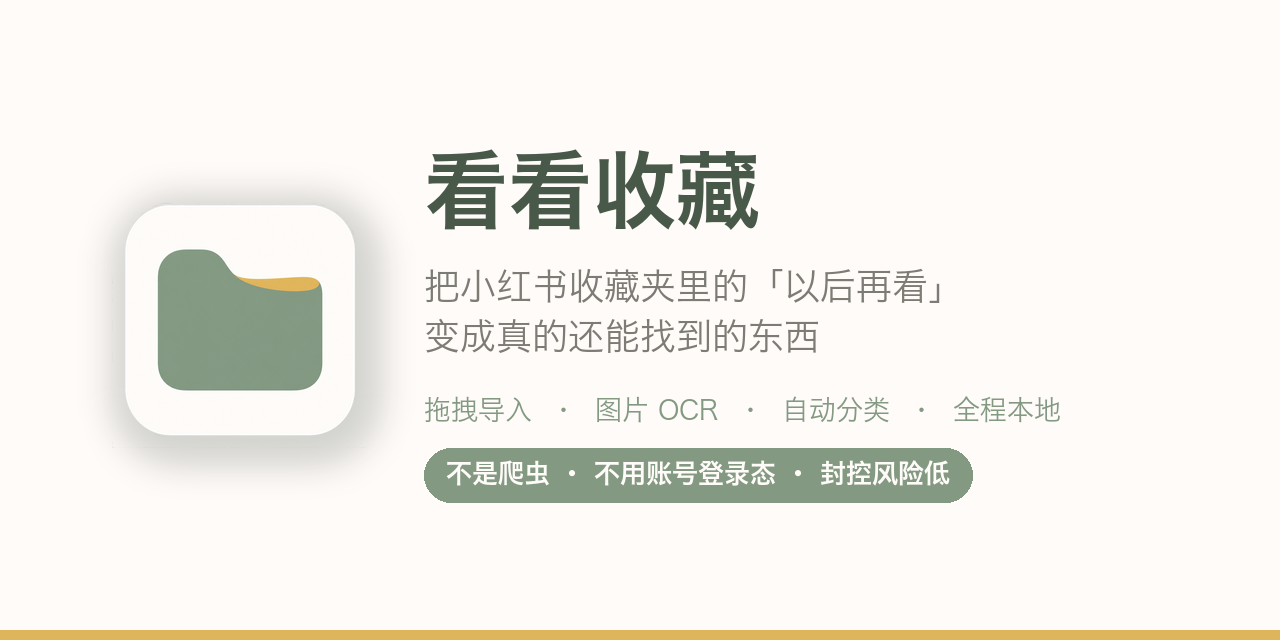
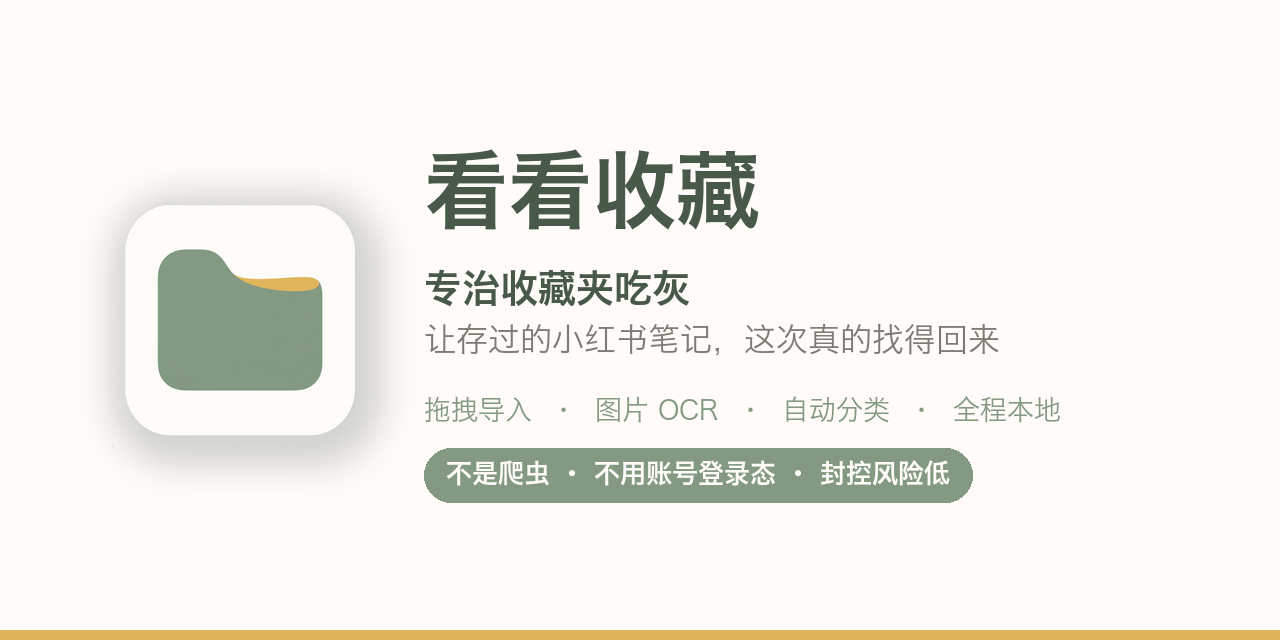
docs: 文案改用「收藏夹吃灰」的社区说法

Changed region(s): [[0.3125, 0.4062, 0.7812, 0.5625]]

diff --git a/README.md b/README.md
@@ -4,7 +4,7 @@
 
 # 看看收藏
 
-**把小红书收藏夹里那些「以后再看」的笔记，变成真的还能找到的东西。**
+**专治收藏夹吃灰 —— 让存过的小红书笔记，这次真的找得回来。**
 
 <img src="https://img.shields.io/badge/macOS-13%2B-000000?logo=apple&logoColor=white" alt="macOS" />
 <img src="https://img.shields.io/badge/Tauri-2-24C8DB?logo=tauri&logoColor=white" alt="Tauri" />
@@ -29,14 +29,18 @@
 
 ## 🤔 为什么做这个
 
-小红书的收藏夹有个众所周知的问题：**存进去等于扔掉**。
+小红书用户自己最常说的一句话就是**收藏夹吃灰** —— 收藏的那一下确实觉得有用，然后就再也没打开过。
 
-- 收藏了三百条，想找那条讲配色的，翻不到 —— 收藏夹不支持搜正文
-- 干货全写在图片里，搜索框对图片里的文字完全无能
+但吃灰不全是懒，是收藏夹本身没法用：
+
+- 存了三百条，想找那条讲配色的，翻不到 —— 收藏夹不支持搜正文
+- 干货全写在图片里，搜索框对图里的字完全无能
 - 笔记被作者删了、被限流了，你的收藏就变成一张灰色占位图
-- 分类得手动建收藏夹，建完也懒得整理
+- 想分类得手动建收藏夹，建完也懒得整理
 
-这个 App 的思路很简单：**把你在意的那几条，抄一份到本地。** 正文、配图、图里的文字，一次性扒干净存下来。之后搜关键词就能命中，原帖删了也不影响你。
+于是「等有空再看」就变成了永远不看。
+
+这个 App 的思路很简单：**把你在意的那几条，抄一份到自己电脑上。** 正文、配图、图里的文字，一次性扒干净存下来。之后搜关键词就能命中，原帖删了也不影响你 —— 灰就吃不起来了。
 
 ## ✨ 能做什么
 
